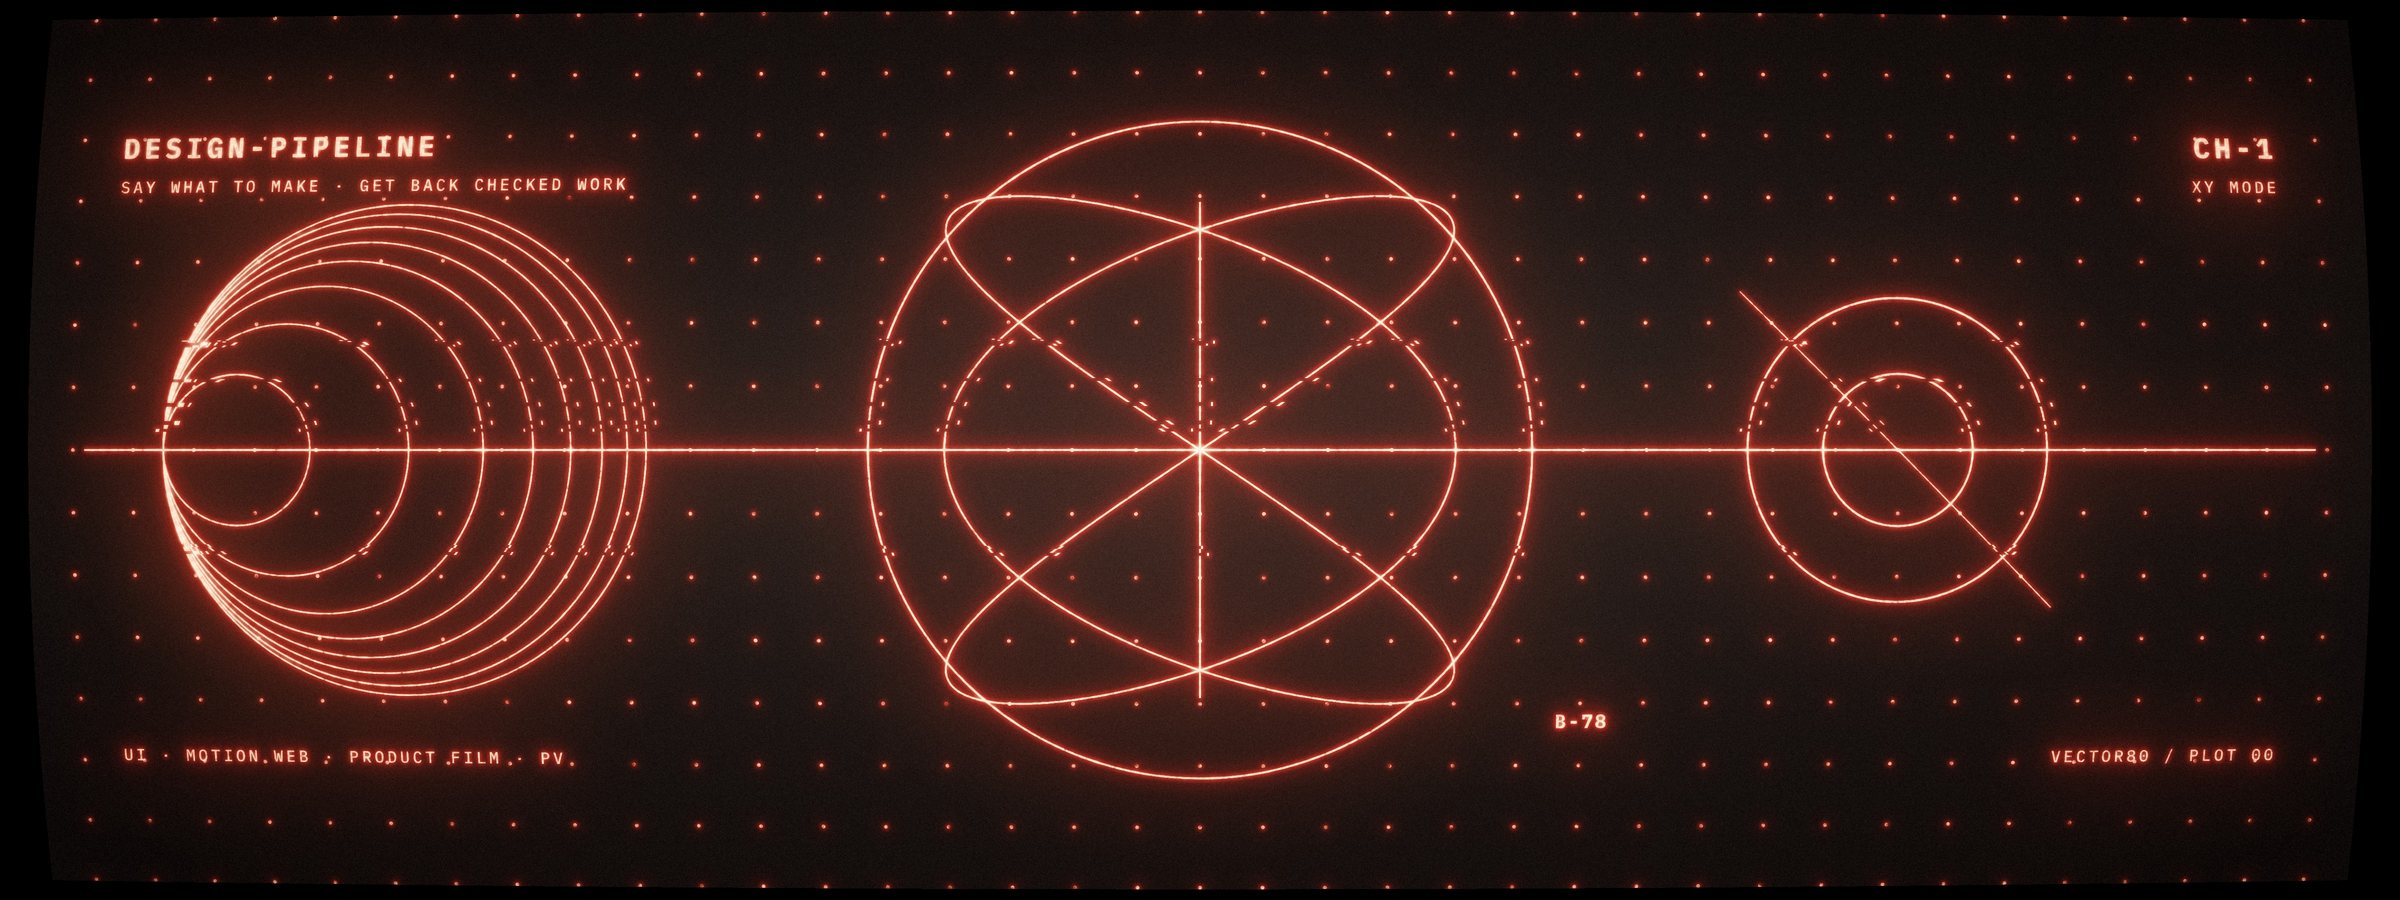
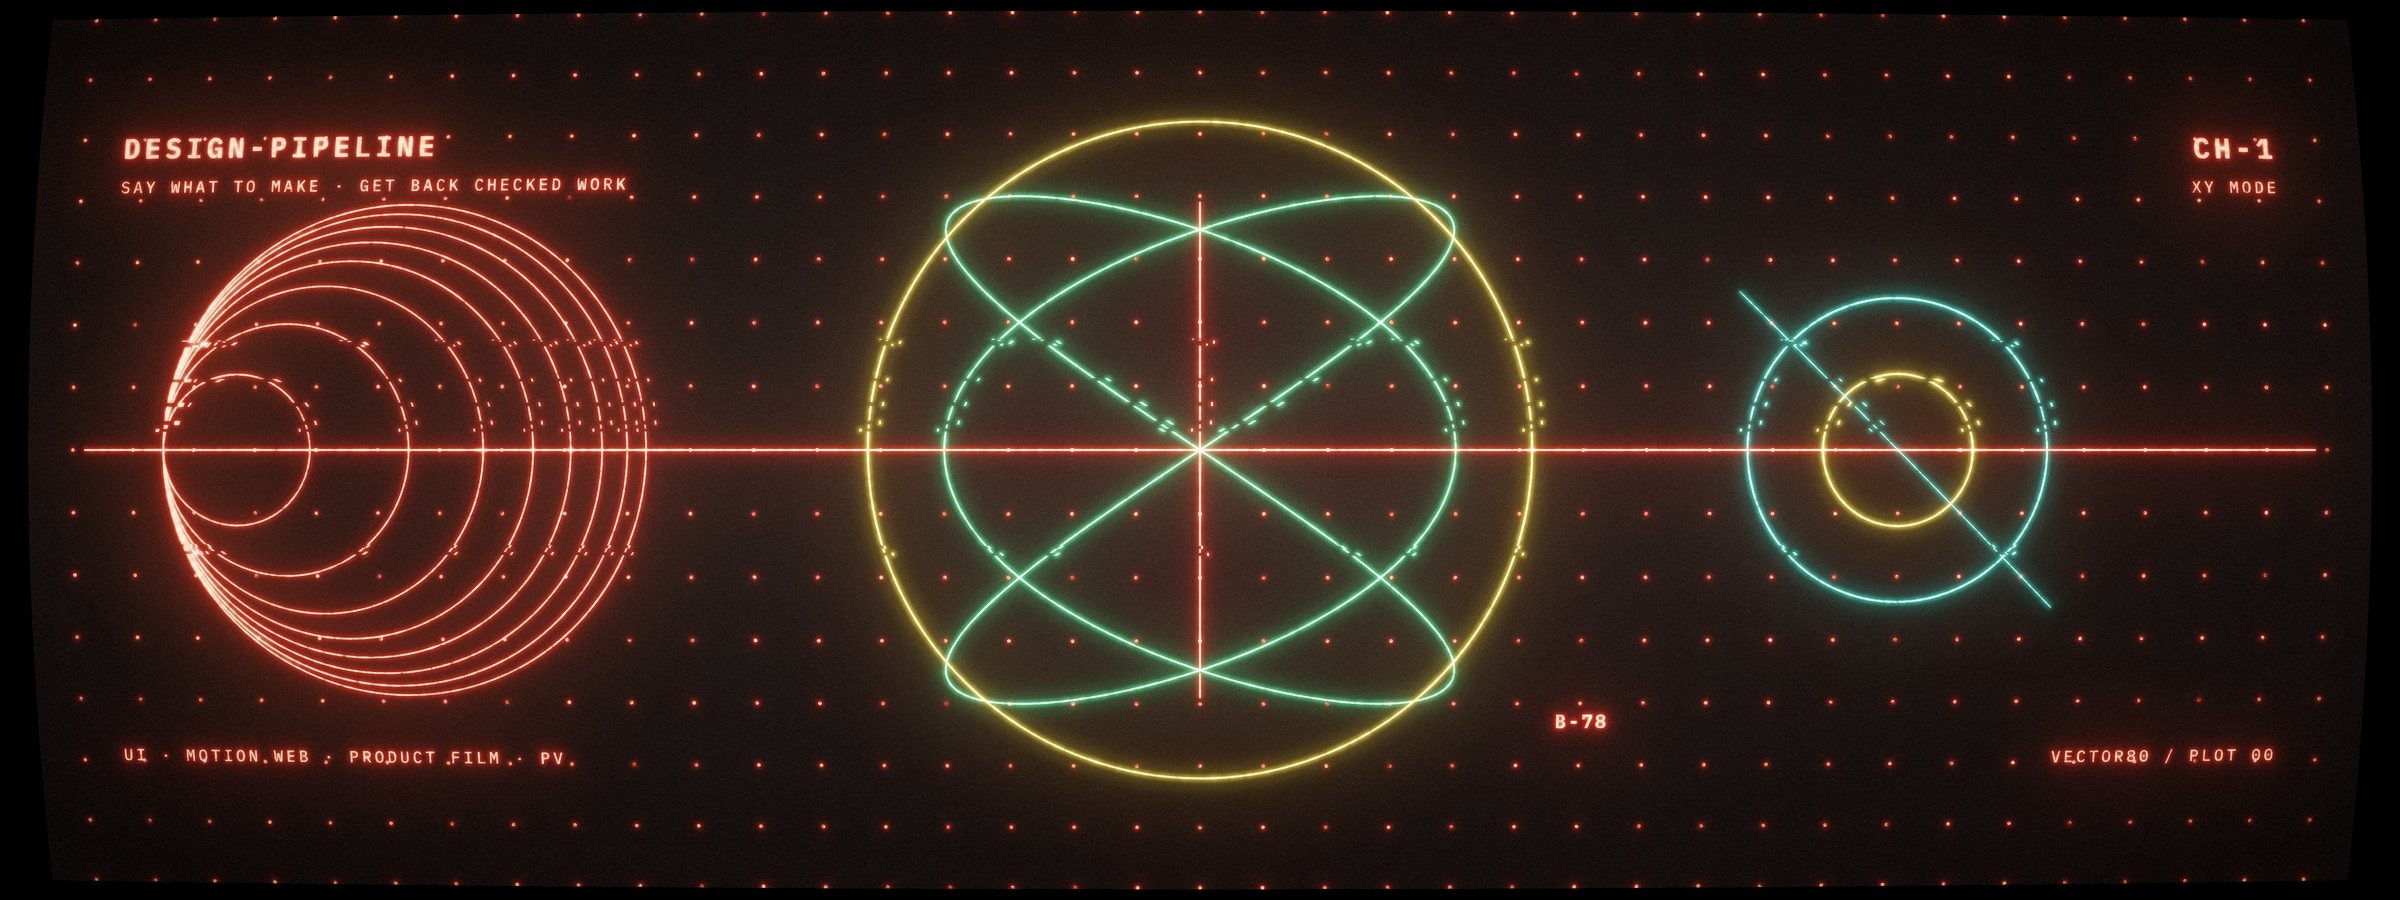
docs: colour README header; add industrial archive sheets section
The vector80 header now draws each trace in its own phosphor (red pencil,
green Lissajous, yellow and teal rings); scope traces accept a per-trace
phosphor. The README gains a section with the four sheet-kit golden sheets
and the order-book depth archive sheet.

Claude-Session: https://claude.ai/code/session_01TinTNAETGZUJiCR2ZLmKQn

Changed region(s): [[0.3438, 0.1244, 0.6562, 0.9022], [0.7188, 0.3111, 0.875, 0.6844]]

diff --git a/CHANGELOG.md b/CHANGELOG.md
@@ -8,7 +8,7 @@ All notable changes to Design Pipeline are documented here.
 
 ### Added
 
-- README opens with a header drawn by the `vector80` template (an oscilloscope plate: tangent pencil, Lissajous figure, graticule, physical glow) and gains an "80 年代矢量屏" section with the four golden plates; the header's spec is `docs/cases/vector80/readme-hero.json`.
+- README opens with a header drawn by the `vector80` template (an oscilloscope plate: tangent pencil, Lissajous figure, graticule, physical glow) and gains an "80 年代矢量屏" section with the four golden plates; the header's spec is `docs/cases/vector80/readme-hero.json`. A "工业档案页" section shows the four sheet-kit golden sheets and the order-book depth archive sheet. Scope traces in `vector80` may each carry their own `phosphor`.
 - Sheet kit for industrial document sheets about a real subject (change `add-archive-sheet-kit`): `tools/template-bank/sheet-kit.cjs` renders a sheet from a JSON spec with a reusable frame, one computed hero (`sequence`, `bitfield`, `hexmap`, `elevation`, `gnomon`), side blocks (`table`, `bill`, `metrics`, `tabs`, `barcode`, an embedded second hero) and notes, in the `paper`, `terminal` and `field` dialects. Render reports findings for a missing sources line, an incomplete frame, the method's density budgets and side-column overflow, and discloses example values in the footer. Four golden specs ship in `tools/template-bank/sheets/` (TCP opening, Webb primary mirror, Tay Bridge high girders, Dengfeng gnomon). `industrial-document-sheets.md` adopts the four-question intake (format and size, institution, dialect, density), and routing no longer needs Arknights wording.
 - Vector display plates (change `add-archive-sheet-kit`): `tools/template-bank/vector80.cjs` renders early-80s vector screens from a JSON spec in three layouts, `scope` (dot graticule, circles, Lissajous, tangent pencils), `plate` (isometric platform, rings, flag tags around a computed Menger sponge, height field or dome) and `panel` (framed instrument panel with a readout column and a globe view), as crisp phosphor lines; `vector80-glow.py` adds the physical glow (white-hot cores, three bloom halos, heat shift, scan tears kept inside the spec's `tearZone`, phosphor speckle, halation, film fog, grain, vignette, barrel; `--contrast` deepens blacks, tightens halos and heats cores, default 1.4). Four golden specs in `tools/template-bank/vector80/`; findings `layout-unknown`, `subject-unknown`, `trace-unknown`, `view-unknown`, `readout-overflow`, `phosphor-budget`.
 - Example `computed-sheets-kit` (change `add-archive-sheet-kit`): 56 pieces whose figure is computed — product dialects, protocol and structure sheets, object cards, a beat-cut teaser, the grammar on other media (receipt, badge, 404, ribbon, small multiples, dial), hand-laid game-grammar pieces, mathematical figures (Lorenz, phyllotaxis, Fourier/Gibbs, Ulam, Kepler, logistic bifurcation), dense point clouds from numpy (Buddhabrot, Chirikov standard map, de Jong, Clifford, Lyapunov) a Kondratiev spiral, a computed material triptych, a constructivist faktura composition and an order-book depth canyon in a game-UI frame as a ray-marched engine still and as a hologram with HUD cards (clean, megastructure and deep-space versions with a grit pass), and the same hologram as an industrial depth archive sheet (the gritty render only in a 2× hero window under a light grit pass, every reading, ladder and callout as crisp vector), and a blue/yellow stage (a computed machine duotoned cobalt to signal yellow with a blue halftone, on white with light beams, pillars, four-point stars and dot grids: the Webb mirror, a cyclotron and the order-book hologram re-inked), and cut-paper emblems (`cut.py`: flat shapes with fingerprint, wood-grain and dry-brush textures, torn edges and orange / blue offset fringes around one subject: a cartographer, a squirrel and a Claude self-portrait), and isometric line drawings on a 30° grid with hidden lines removed (Menger sponge, Platonic solids plate with computed V/E/F, 240-cell height field, 3D Hilbert curve), all on simulated data. `node build/all.cjs` renders them with a contact sheet; the method guide now says its grammar lines are chosen per subject.

diff --git a/README.md b/README.md
@@ -34,7 +34,7 @@ SKILLS_DOWNLOAD_MAX_BYTES=104857600 SKILLS_EXTRACT_MAX_BYTES=268435456 SKILLS_EX
 
 然后让你的 agent 运行 `designer-pipeline doctor`：它列出缺什么、每项给一条可复制的命令，不会替你安装任何东西。装好以后直接说需求，例如“用 design-pipeline 给这个卡牌游戏做一套卡面模板”。Windows、离线 Release 包和升级方式见 [安装与第一次运行](docs/install.md)。需要 Node.js 22.12 或更新版本。
 
-[矢量屏](#80-年代矢量屏) · [风格包](#游戏官网与世界观风格包) · [合成](#合成生成角色进模板) · [案例](#案例) · [检查零问题不等于好](#为什么检查零问题不等于好) · [能做什么](#能做什么) · [怎么工作](#怎么工作) · [原则](#几条原则) · [局限](#局限) · [文档](#继续阅读)
+[矢量屏](#80-年代矢量屏) · [工业档案页](#工业档案页) · [风格包](#游戏官网与世界观风格包) · [合成](#合成生成角色进模板) · [案例](#案例) · [检查零问题不等于好](#为什么检查零问题不等于好) · [能做什么](#能做什么) · [怎么工作](#怎么工作) · [原则](#几条原则) · [局限](#局限) · [文档](#继续阅读)
 
 ---
 
@@ -49,6 +49,16 @@ SKILLS_DOWNLOAD_MAX_BYTES=104857600 SKILLS_EXTRACT_MAX_BYTES=268435456 SKILLS_EX
 
 <p align="center"><img src="docs/cases/vector80/vector80-plates.jpg" width="100%" alt="四张矢量屏样张：红色示波器切圆束，绿色荧光门格海绵立在红色台面上带黄色旗标，青色高度场和三面旗标，蓝框仪表面板里的绿色地球和红黄等值圈"></p>
 <p align="center"><sub>▲ 四份示例规格：切圆束、门格海绵、测绘高度场、入轨面板。读数为模拟值。用法见 <a href="skill/references/industrial-document-sheets.md">工业档案页指南</a> 的 Vector plates 一节。</sub></p>
+
+## 工业档案页
+
+关于真实主题的工业科幻海报和信息单，比如“泰桥倒塌”或“圭表测影”。`sheet-kit` 用一份 JSON 出整页：机构和文件号、一个按数据算出来的主图（时序梯、报文位图、分段主镜、桥梁立面、正午日影）、侧栏读数和手写批注；没写出处、超出信息密度预算、侧栏溢出都会报出来。最多问四个问题：格式和尺寸、发行机构、方言、密度。
+
+<p align="center"><img src="docs/cases/industrial-sheets/sheet-kit-goldens.jpg" width="100%" alt="四张工业档案页：泰桥高梁段倒塌立面、登封圭表正午日影、TCP 三次握手与报头位图、韦布望远镜 18 片主镜分段图，浅灰底、细框线、单一品牌色"></p>
+<p align="center"><sub>▲ sheet-kit 的四份示例规格：泰桥 1879、圭表测影、TCP 握手、韦布主镜。日影长度按纬度和赤纬算，主镜按六边形网格排。</sub></p>
+
+<p align="center"><img src="docs/cases/industrial-sheets/depth-archive-sheet.jpg" width="100%" alt="盘口深度档案页：左栏协议参数和十档买卖表，中间是带粗粝感的全息盘口投影窗，标注最新价和卖墙，底部一排大号读数，全部文字为矢量"></p>
+<p align="center"><sub>▲ 同一套版式装进有质感的主图：粗粝只留在投影窗里，读数、档位和标注全是矢量，保证看得清。数据为模拟盘口。</sub></p>
 
 ---
 

diff --git a/skill/references/industrial-document-sheets.md b/skill/references/industrial-document-sheets.md
@@ -271,7 +271,7 @@ python3 tools/template-bank/vector80-glow.py out.png plate.jpg --tear 560,1260 -
 
 | Layout | Holds |
 | --- | --- |
-| `scope` | dot graticule and axes; traces `circle`, `line`, `lissajous`, `pencil` (circles tangent at one point); one phosphor |
+| `scope` | dot graticule and axes; traces `circle`, `line`, `lissajous`, `pencil` (circles tangent at one point); one phosphor, or a `phosphor` per trace |
 | `plate` | isometric platform with tabs, floor rings, way-markers and flag tags around a computed subject: `menger` (level n), `field` (height-field peaks), `dome` |
 | `panel` | instrument panel: framed title, status boxes, right readout column, corner crosshairs, a `globe` view (graticule and contour rings) |
 
